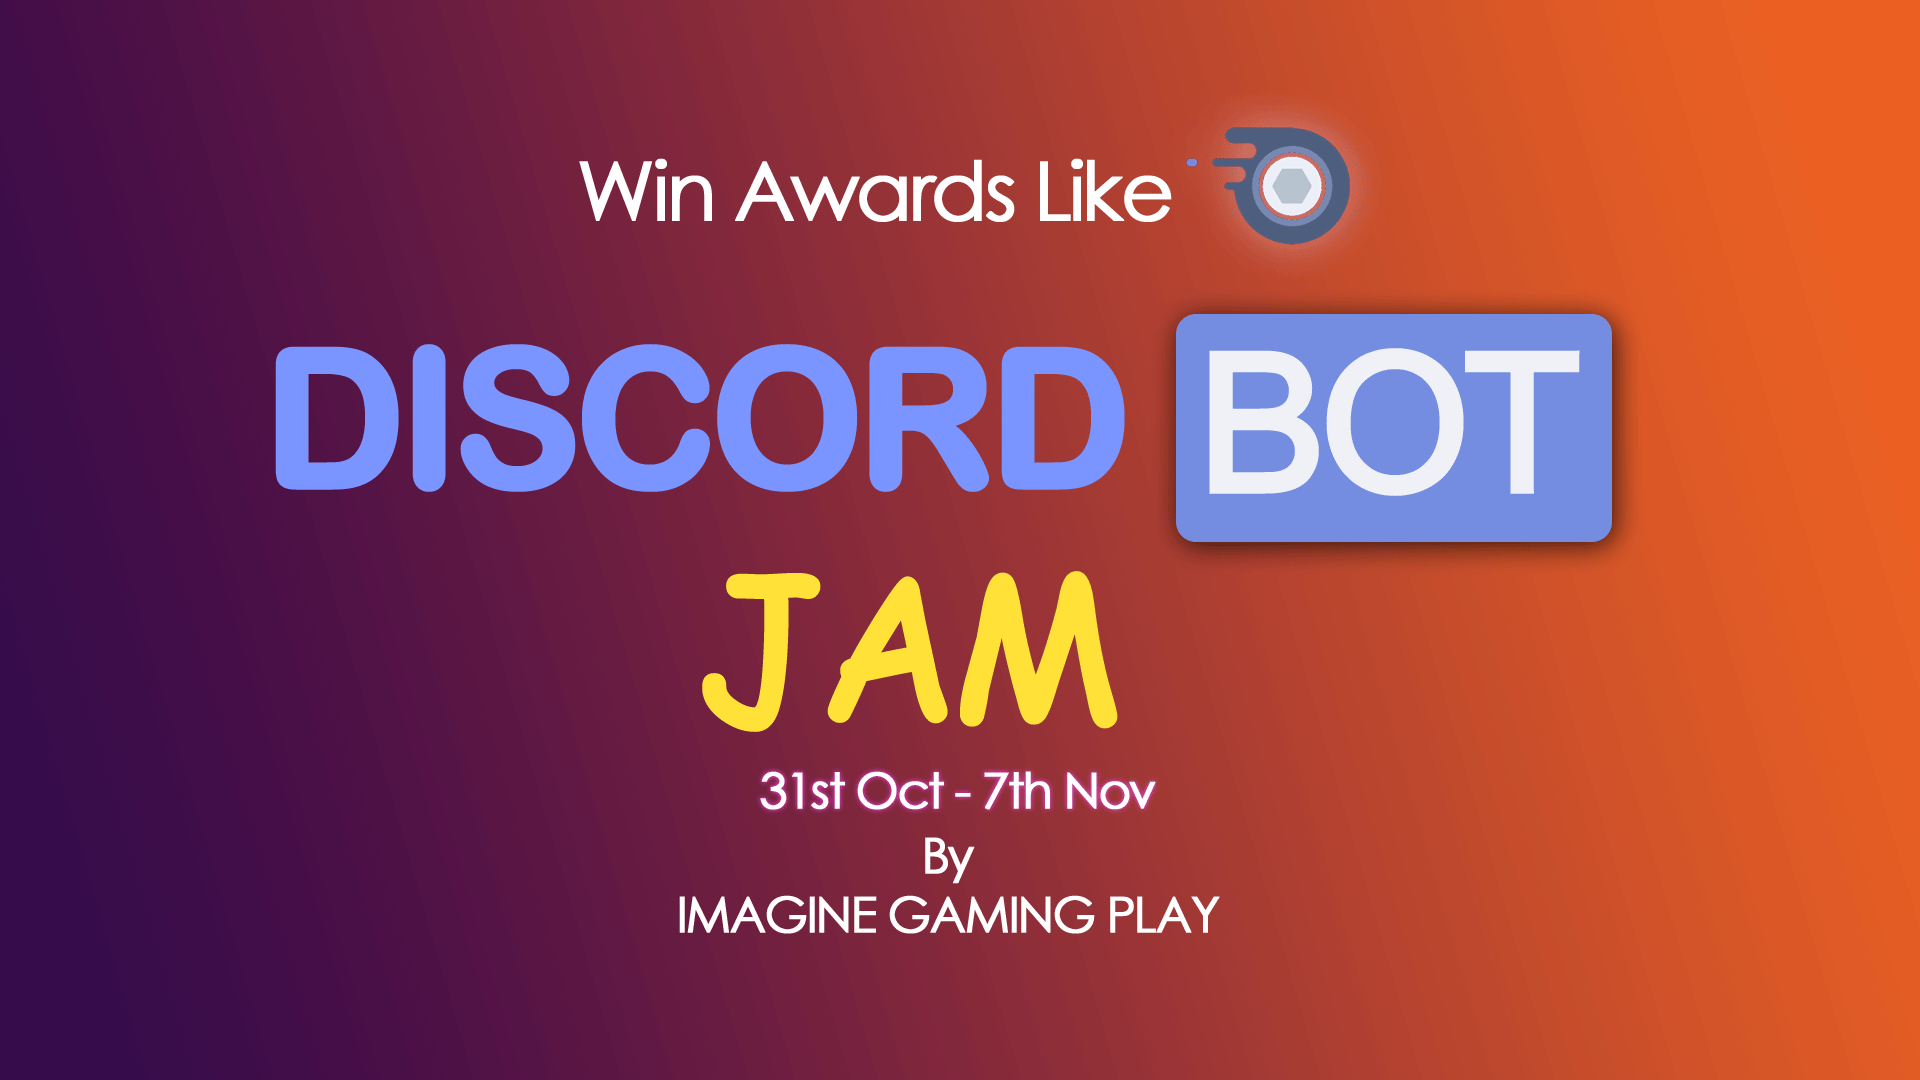
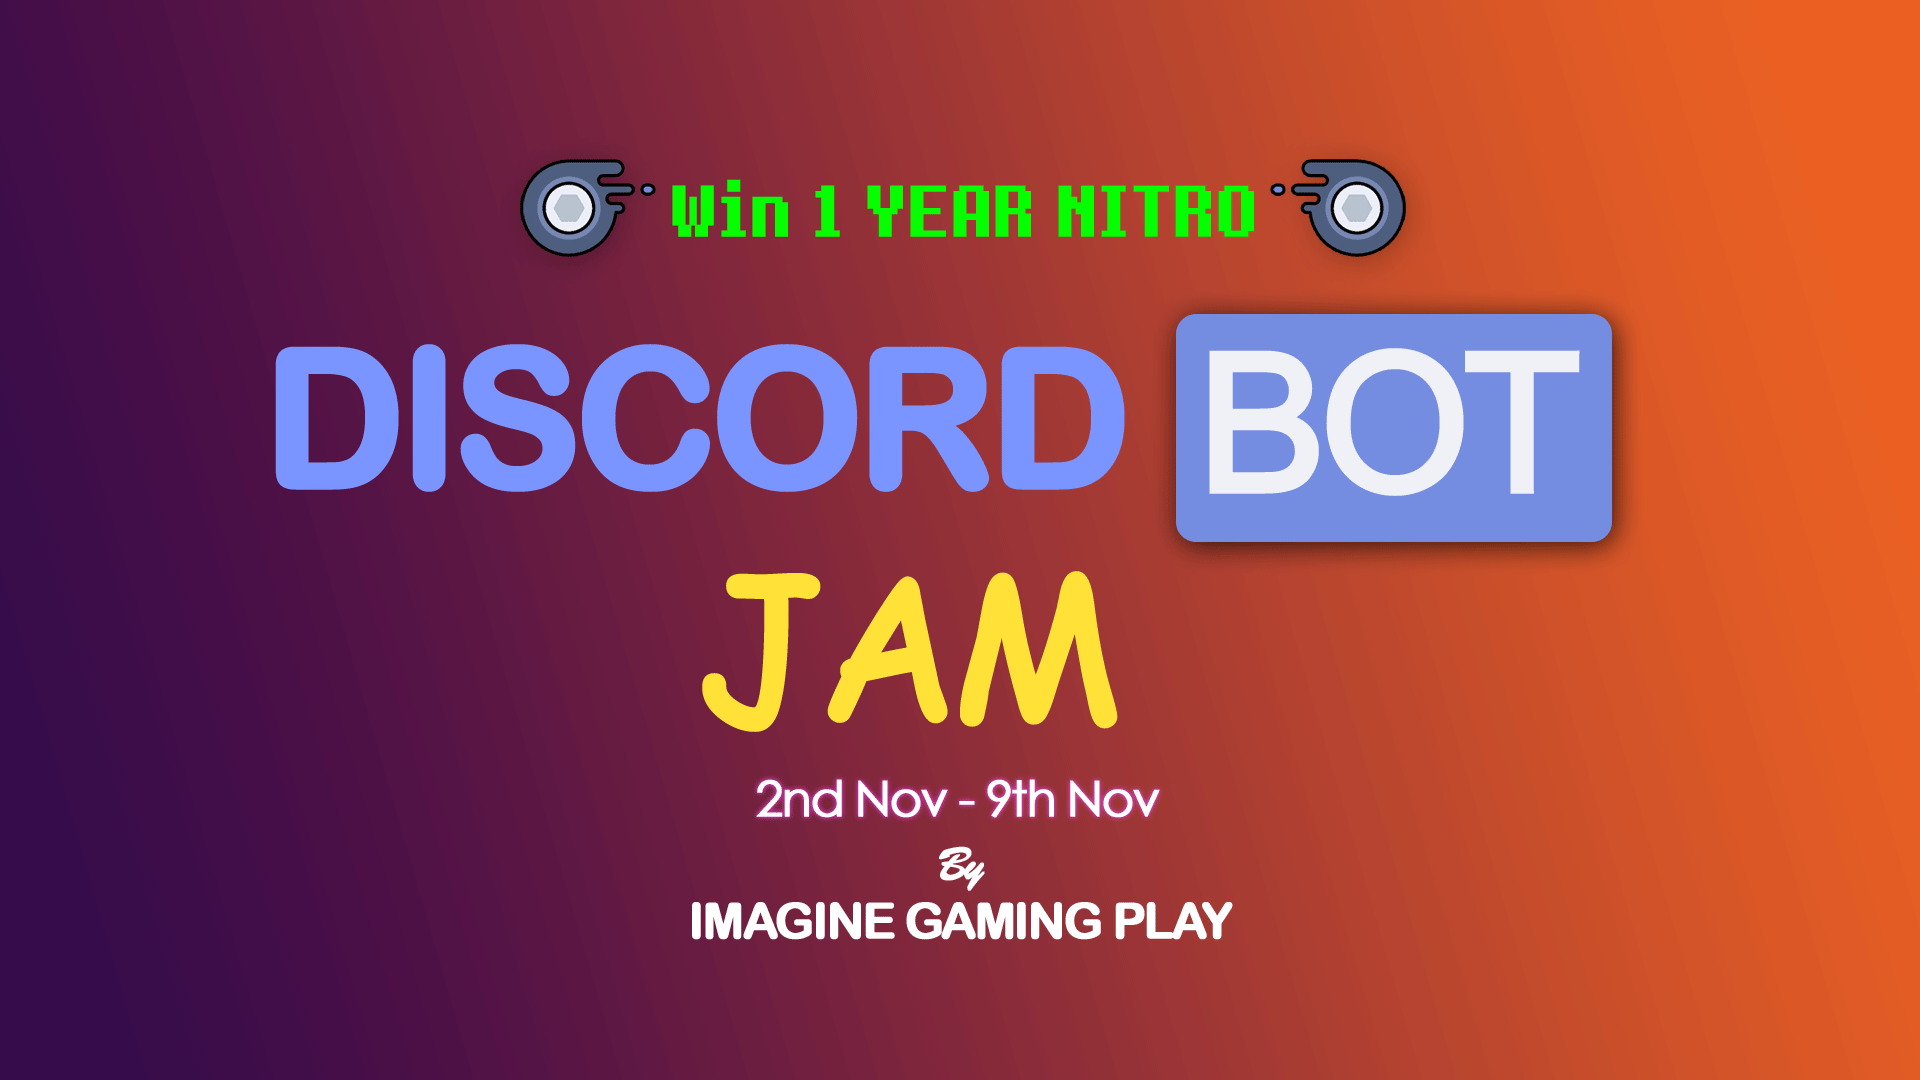
Jam page

Changed region(s): [[0.25, 0.0917, 0.75, 0.2444], [0.3438, 0.7028, 0.6562, 0.8861]]

diff --git a/public/html/jam.html b/public/html/jam.html
@@ -11,7 +11,8 @@
     <meta property="og:type" content="website" />
     <meta property="og:url" content="http://imagine.cf/jam" />
     <meta property="og:image" content="https://img.itch.zone/aW1nLzU5NjUxOTEucG5n/original/7VgQZo.png" />
-    <meta property="og:description" content="You will be challenged to make the Best Discord Bot in one week, to win some amazing prizes." />
+    <meta property="og:description"
+        content="You will be challenged to make the Best Discord Bot in one week, to win some amazing prizes." />
     <meta name="theme-color" content="#000000">
     <link rel="icon" type="image/png" href="https://avatars.githubusercontent.com/u/50368787?v=4">
 
@@ -29,16 +30,58 @@
                 Appeals</a>
         </div>
     </nav>
-<section class="hero">
-    <div class="hero-container">
-        <div class="img-container">
-        <img class="jam-banner" src="../assets/jam.png">
-    </div>
-    <div class="column-center"> 
-        <h1 class="jam-title"> Discord Bot Jam </h1>
-        <h1 class="jam-description"> Now's your chance to a BIG SHOT! Code a Discord Bot from the given theme and win nitro!</h1>
-    </div>
-    </div>
+    <section class="hero">
+        <div class="hero-container">
+            <div class="img-container">
+                <img class="jam-banner" src="../assets/jam.png">
+            </div>
+        </div>
+        <div class="column-center">
+            <h1 class="jam-title"> Discord Bot Jam 2021 </h1>
+            <h1 class="jam-description">
+                Now's your chance to a [[BIG SHOT]] Code a <span style="color:lightgreen"> creative </span> Discord Bot from the given theme and win Discord Nitro!
+                <br><br>
+                You will get <strong> One Week </strong> time to code a Discord Bot and submit it into our Discord
+                Server!
+                <br>
+                Special thanks to <strong> <span style="color: rgb(255, 58, 255);"> Kimizu#0001 </span> </strong> for
+                making this JAM possible!
+            </h1>
+            <h1 class="jam-title"> Requirements </h1>
+            <h1 class="jam-description">
+                Your bot must be a public repositary on Github so we can confirm that the code is actually written by
+                you and is not copied.
+                <br>
+                <strong> Join These Two Servers </strong>
+                <br>
+                <a href="https://discord.gg/MhKjkbr" style="color: orange;">IGP's Stars</a>&nbsp;(Bot submissions will
+                be here)
+                <br>
+                <a href="https://discord.gg/jzAm5EJHyv" style="color: rgb(255, 159, 80);">🎃✦ Luphic GFXヾ</a> (Bots will
+                be judged here)
+                <br>
+                Note: You will be disqualified if you are not in both servers.
+            </h1>
+            <h1 class="jam-title"> Submit Your Bot </h1>
+            <h1 class="jam-description">
+                To submit your bot for the Jam, go to #submit-your-bot channel in my server (IGP Stars) <br> and submit
+                your bot by sending a message following this template-:
+                <br>
+                [Bot Name]
+                <br>
+                [About The Bot]
+                <br>
+                Repositary: [Repositary Link]
+                <br>
+                Bot Invite: [Bot Invite Link]
+            </h1>
+            <h1 class="jam-title"> Judges </h1>
+            <h1 class="jam-description">
+                Bots will be judged and tested in <a href="https://discord.gg/jzAm5EJHyv" style="color: rgb(255, 159, 80);">🎃✦ Luphic GFXヾ</a> besure to be there to test out others bot and show-off yours aswell!
+                <br>
+                Judges: Imagine#
+            </h1>
+        </div>
     </section>
     <footer>
         <div class="footer_content">
@@ -60,6 +103,7 @@
         </div>
         </div>
     </footer>
-</section>
+    </section>
 </body>
+
 </html>

diff --git a/public/styles/jam.css b/public/styles/jam.css
@@ -1,14 +1,13 @@
 .jam-banner {
     display: flex;
-    height: 20rem;
-    width: rem;
+    height: 100%;
+    width: 100%;
     align-self: center;
     border-top: 6px solid #ffffff;
     border-right: 6px solid #ffffff;
     border-bottom: 6px solid #beb5ab;
     border-left: 6px solid #afa69c;
     box-shadow: 4px 4px 0 0 rgba(255, 255, 255, 0.6);
-    margin-left: 10vw;
     z-index: 1;
 }
 
@@ -125,7 +124,8 @@
       display: flex;
       flex-direction: column;
       align-items: center;
-      padding: 0rem 2rem
+      padding: 0rem 2rem;
+      background-color: #1b1c2b;
   }
 
   .jam-title {
@@ -137,11 +137,12 @@
       0 -1px 0 #393f42, 
       0 2px 0 #1b1c2b;
       /* border-style: dotted;
-      border-color: red; */
+      border-color: red; */;
   }
 
   .jam-description {
     color: white;
+    text-align: center;
     /* border-style: dotted;
     border-color: red; */
   }
